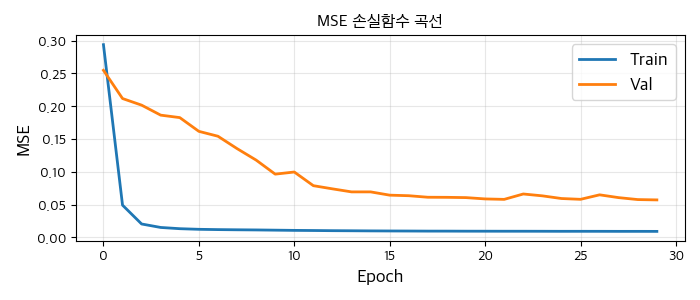
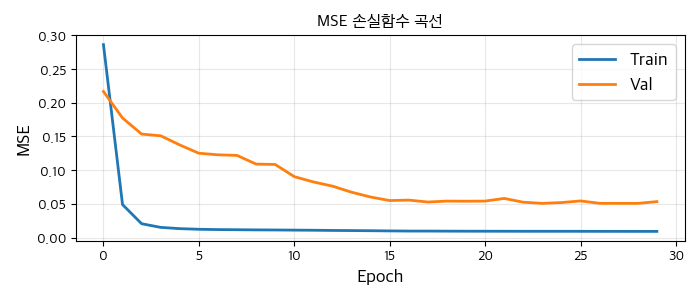
update

diff --git a/rnn/main.py b/rnn/main.py
@@ -17,8 +17,8 @@ print(df.head())
 configs = {
     'seed': 42,
 
-    'lookback': 28,
-    'horizon': 7,
+    'lookback': 48,
+    'horizon': 6,
     'val_ratio': 0.2,
 
     'feature_dim': 1, # 단변량

diff --git a/rnn/main_direct.py b/rnn/main_direct.py
@@ -17,8 +17,8 @@ print(df.head())
 configs = {
     'seed': 42,
 
-    'lookback': 28,
-    'horizon': 7,
+    'lookback': 48,
+    'horizon': 6,
     'val_ratio': 0.2,
 
     'feature_dim': 1, # 단변량

diff --git a/rnn/main_dropout.py b/rnn/main_dropout.py
@@ -17,8 +17,8 @@ print(df.head())
 configs = {
     'seed': 42,
 
-    'lookback': 28,
-    'horizon': 7,
+    'lookback': 48,
+    'horizon': 6,
     'val_ratio': 0.2,
 
     'feature_dim': 1, # 단변량

diff --git a/rnn/main_teacher.py b/rnn/main_teacher.py
@@ -17,8 +17,8 @@ print(df.head())
 configs = {
     'seed': 42,
 
-    'lookback': 28,
-    'horizon': 7,
+    'lookback': 48,
+    'horizon': 6,
     'val_ratio': 0.2,
 
     'feature_dim': 1, # 단변량
